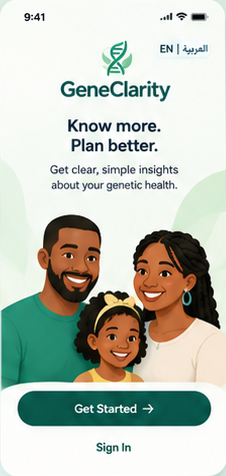
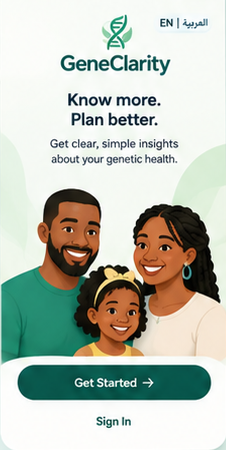
Crop the mock status bar out of the welcome artwork and re-align hit areas
Cuts the top 26px of public/assets/welcome-onboarding.png so the baked-in 9:41 status bar is gone; the image is now 226 x 450.

The .welcome-art wrapper ratio and the three transparent hit areas in Welcome.jsx were re-measured against the cropped file (Get Started pill, Sign In label, language label), so every tap target still lands exactly on the button it stands in for. No other artwork pixels were altered.

diff --git a/src/screens/Welcome.jsx b/src/screens/Welcome.jsx
@@ -14,8 +14,10 @@ import { useLanguage } from '../i18n/LanguageContext.jsx'
  *
  * The visual is the exact image supplied for approval — logo, family
  * illustration, headline, colours and the two buttons are all baked
- * into `public/assets/welcome-onboarding.png` (226 × 476). Nothing is
- * redrawn, re-created or approximated here; the file is the design.
+ * into `public/assets/welcome-onboarding.png` (226 × 450). The only
+ * edit made to the file was cropping the mock-up's 9:41 status bar
+ * off the top, as requested. Nothing else is redrawn, re-created or
+ * approximated here; the file is the design.
  *
  * Because "Get Started", "Sign In" and "EN | العربية" are pixels in
  * that picture rather than DOM nodes, they are made tappable with
@@ -33,8 +35,6 @@ import { useLanguage } from '../i18n/LanguageContext.jsx'
  *     the real menu and really changes the app language).
  *   • The "EN | العربية" label is likewise part of the picture; only
  *     the tap target over it is functional.
- *   • The 9:41 status bar is part of the supplied artwork and is
- *     reproduced because the image must be used unmodified.
  * ─────────────────────────────────────────────────────────────────
  *
  * The medical-safety line the old screen printed under the buttons is
@@ -45,15 +45,17 @@ export default function Welcome() {
   const navigate = useNavigate()
   const { t } = useLanguage()
 
-  // Hit-area geometry, measured pixel-by-pixel against the 226 × 476
-  // source image and converted to percentages of that box.
-  //   Get Started pill : x 19–209, y 391–425
-  //   Sign In label    : x 97–130, y 443–453 (expanded to a tap size)
-  //   Language label   : x 160–204, y 44–53  (expanded to a tap size)
+  // Hit-area geometry, measured pixel-by-pixel against the 226 × 450
+  // source image and converted to percentages of that box, then padded
+  // to a comfortable tap size (the raw text boxes are far smaller
+  // than the recommended 44px touch target).
+  //   Get Started pill : x 19–209, y 365–399
+  //   Sign In label    : x 97–130, y 417–427 (expanded to a tap size)
+  //   Language label   : x 108–204, y 15–45  (expanded to a tap size)
   const HIT = {
-    getStarted: { left: '8.41%', top: '82.14%', width: '84.07%', height: '7.15%' },
-    signIn: { left: '35%', top: '91.5%', width: '30%', height: '6%' },
-    language: { left: '65%', top: '6.5%', width: '28%', height: '7%' },
+    getStarted: { left: '8.41%', top: '81.11%', width: '84.51%', height: '7.78%' },
+    signIn: { left: '34%', top: '90.4%', width: '32%', height: '7%' },
+    language: { left: '50%', top: '2.8%', width: '38%', height: '8%' },
   }
 
   return (

diff --git a/src/styles/index.css b/src/styles/index.css
@@ -61,18 +61,19 @@ html[lang='ar'] .arabic-tight {
   }
 
   /* --- Welcome artwork frame ----------------------------------------
-     The supplied onboarding image is 226 × 476 (ratio 0.4748). This
-     sizes the wrapper to that exact ratio, as large as fits, so the
-     <img> inside needs no object-fit tricks and cannot distort. The
-     wrapper and the picture are therefore the same box, which is what
-     lets the transparent hit areas line up with the buttons drawn into
+     The supplied onboarding image is 226 × 450 (ratio 0.5022) after
+     the 9:41 status bar was cropped off the top. This sizes the
+     wrapper to that exact ratio, as large as fits, so the <img>
+     inside needs no object-fit tricks and cannot distort. The wrapper
+     and the picture are therefore the same box, which is what lets
+     the transparent hit areas line up with the buttons drawn into
      the artwork at any viewport size.
      `vh` first as a fallback, then `dvh` where supported so mobile
      browser chrome doesn't push the art past the visible area. */
   .welcome-art {
-    width: min(100%, calc(100vh * 226 / 476));
-    width: min(100%, calc(100dvh * 226 / 476));
-    aspect-ratio: 226 / 476;
+    width: min(100%, calc(100vh * 226 / 450));
+    width: min(100%, calc(100dvh * 226 / 450));
+    aspect-ratio: 226 / 450;
   }
 
   /* --- Buttons ------------------------------------------------------
